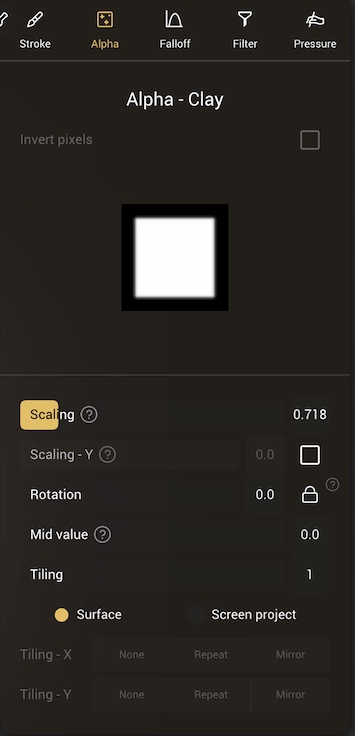
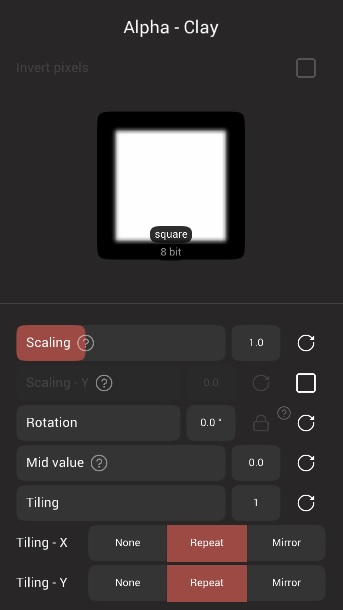
stroke updated to 1.91

diff --git a/manual/docs/stroke.md b/manual/docs/stroke.md
@@ -6,7 +6,7 @@
 ## Overview 
 
 You can customize the stroke behavior of most tool brushes.
-The settings should be similar to the ones present in 2d painting applications, however some options are specific to the sculpting and 3d field.
+The settings should be similar to the ones present in 2d painting applications, however some options are specific to sculpting and 3d.
 
 The options are split across 5 sub-menus:
 
@@ -25,24 +25,37 @@ Not all stroke options apply for all tools. Stroke options that aren't used by t
 
 ## Stroke
 
-### World-space radius
-When enabled, the brush radius is set in world units.
+### Radius
 
-For example if you create a sphere and make the clay tool radius match the sphere, the radius will be the same as the sphere as you zoom in and out.
+![](./images/stroke_radius.jpg)
 
-When disabled, the radius is set in screen units. So if you make the radius 100 pixels wide, when you zoom out or zoom in, the radius will remain 100 pixels wide.
-
-### Share radius
+#### Share radius
 
 When enabled, all tools will use the same radius, the default is for each tool to have its own radius.
 
-## Stroke behavior
+#### Size
 
-Strokes can act in 3 ways:
+* Screen - the radius is set in screen units. So if you make the radius 100 pixels wide, when you zoom out or zoom in, the radius will remain 100 pixels wide.
+* Constant (3d) - the radius is set in 3d units. For example if you create a sphere and make the clay tool radius match the sphere, the radius will be the same as the sphere as you zoom in and out.
+
+
+### Stroke
+
+![](./images/stroke_strokemode.png)
+
+Strokes can act in multiple modes:
 
 ###  Dot ![](./icons/stroke_dot.png#icon) 
 Drag like a regular paint stroke. 
 ![](./videos/stroke_dot.mp4) 
+
+###  Roll ![](./icons/stroke_roll.png#icon) 
+The brush alpha will be rotated to follow the direction of the stroke, useful for making fabric stitches. 
+![](./videos/stroke_roll.mp4) 
+
+###  Tile ![](./icons/stroke_tile.png#icon) 
+The brush alpha will be treated as a repeating pattern, and the brush stroke will reveal that pattern. The tiling is controlled from [Alpha -> Tiling](stroke#tiling).
+![](./videos/stroke_tile.mp4) 
 
  ### Lock + radius ![](./icons/radius.png#icon) 
  Stamp a brush stroke with fixed **height**. Drag will set the scale and rotation.
@@ -69,7 +82,7 @@ Will select what is inside the brush radius when the brush is started, and keep 
 The user radius is ignored, and is set dynamically based on how far the stroke is dragged away from the starting point. A small distance=small radius, a larger distance = bigger radius. Use the intensity slider to control the shape of the falloff. Useful for blocking in organic rubbery shapes.
 ![](./videos/stroke_lockradius_drag.mp4) 
 
-
+![](./images/stroke_space_smooth.png)
 
 ### Adjust spacing intensity
 Strokes with a low spacing (lower than 50%) can accumulate quickly, making more intense strokes than higher spacing values. This toggle will compensate for this, so strokes will be of approximately the same intensity regardless of spacing.
@@ -99,6 +112,8 @@ The projection direction can be set explicitly, the default 'Closest' method wil
 
 ### Randomize
 
+![](./images/stroke_randomize.png)
+
 The intensity, translation, rotation and scale of the stroke can each be randomized. This can be used to create a range of effects, eg mottled color with the paint tool, or the crease tool can be used to create skin detail.
 
 ![](./videos/stroke_randomize.mp4) 
@@ -108,14 +123,18 @@ The intensity, translation, rotation and scale of the stroke can each be randomi
 Apply a constant offset on the stroke. This is useful for small screens where your finger would cover the stroke. 
 
 
-## Alpha
+## Alpha ![](./icons/alpha.png#icon#left)
 ![](./images/stroke_alpha.jpg) 
 The `Alpha` is a texture that will modulate your brush behavior.
 It's a grayscale image, where black pixels mean no deformation and white pixels full deformation.
 
-For now the texture is never resized, so beware that huge image can slow down the performance a bit.
+Click on the alpha image to change it.
 
-### Invert value
+::: tip
+The texture is never resized, so huge textures can slow down performance.
+:::
+
+### Invert pixels
 This will reverse the values of the image, so black pixels will become white, and white pixels will become black. This only works for user-imported textures.
 
 ### Scaling
@@ -136,7 +155,7 @@ The alpha texture will be rotated to follow the direction of the stroke. You can
 
 By default black pixels will mean no deformation, and white pixels will mean full positive deformation, so for example, a clay brush with a alpha texture of rocks will only pull the surface out where the alpha is not black.
 
-If you want the brush to push the surface in, or both push in AND pull out, you can modify the mid value. So if you set the value to 0.5, a middle gray in the alpha will do nothing, a black value will push in, a white will pull out.
+If you want the brush to push the surface in, or both push in AND pull out, you can modify the mid value. So if you set the value to 0.5, a middle gray in the alpha will do nothing, a black value will push in, white will pull out.
 
 ### Tiling
 
@@ -206,6 +225,12 @@ This option will ignore back facing vertices.
 It can be useful if you want to paint part of a thin geometry without impacting the other side.
 It also works for sculpting but you might experience some artifacts.
 
+### Face Group
+This option will limit the brush to the current face group.
+* Auto will filter when face groups are set to be visible from the [Lighting](lighting) menu, and be disabled when they are turned off.
+* On will always filter regardless if the face groups are visible or hidden.
+* Off will never filter regardless if the face groups are visible or hidden.
+
 ### Allow dynamic topology
 This option is only available if your mesh is in [Dynamic Topology](topology.md#dynamic-topology) mode.
 You can disable or enable the refinement for a specific tool.
@@ -230,6 +255,8 @@ At 0%, only the nearest vertex or triangle is taken into account. These values c
 
 
 ### Depth masking
+![](./images/stroke_depthmask.png)
+
 Exclude points that are above or below a certain distance of the computed plane (Area sampling).
 
 This can be used to paint only on bumpy regions, or only on cavity regions.
